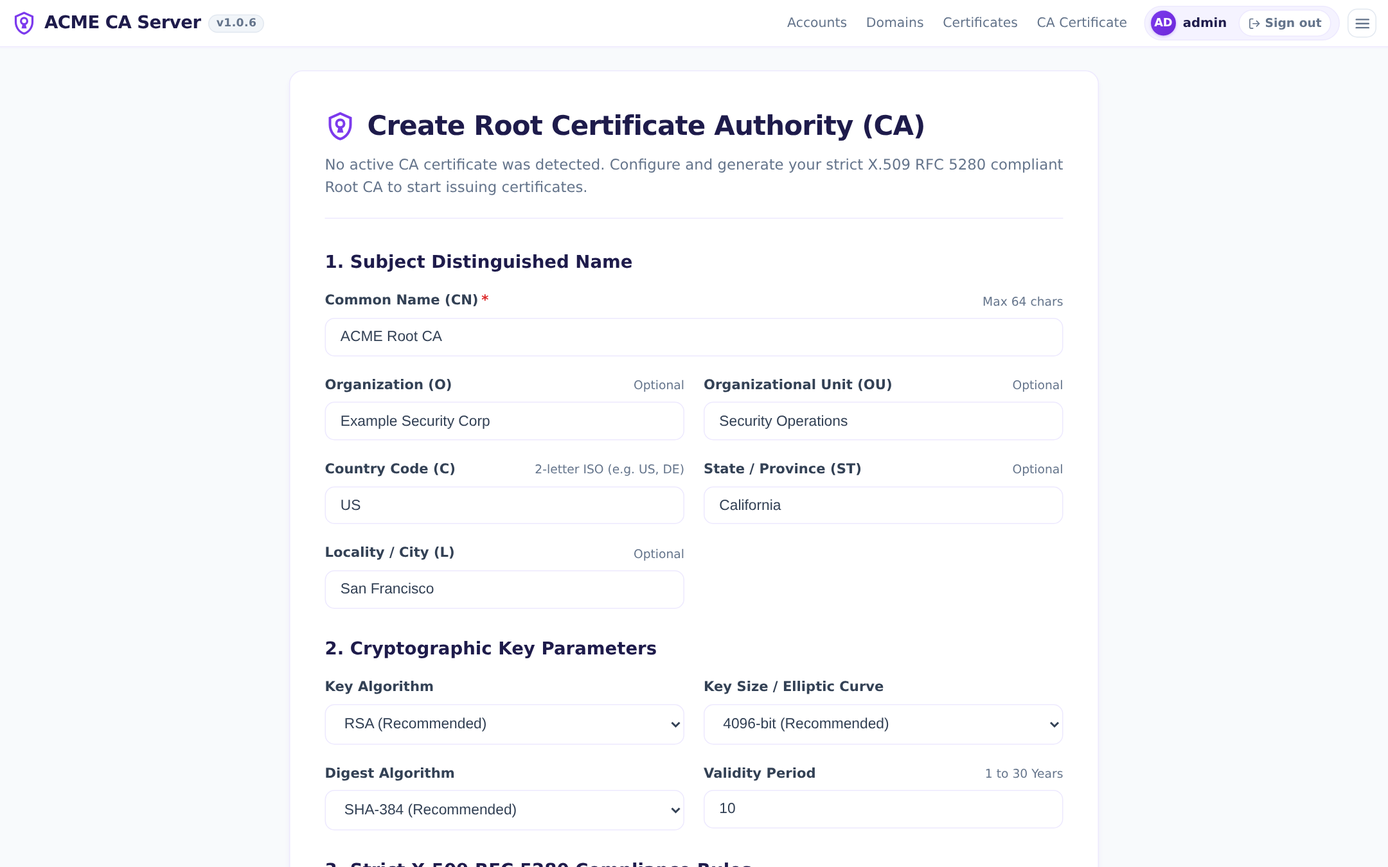
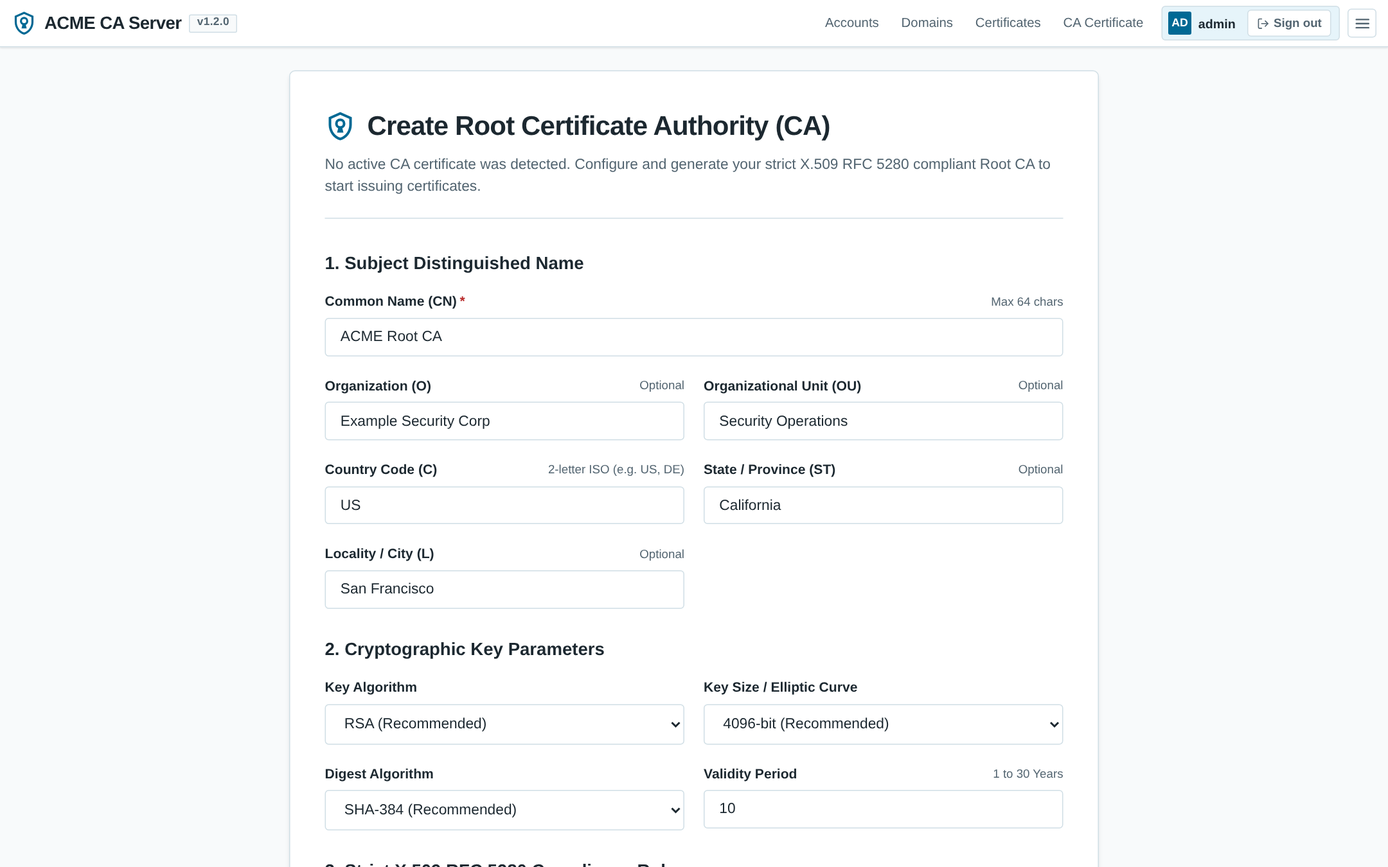
feat: add data management and automated retention UI documentation and screenshot captures

diff --git a/scripts/capture_ui_screens.py b/scripts/capture_ui_screens.py
@@ -19,6 +19,8 @@ Captures high-resolution screenshots of all web UI screens:
   13. CA Fleet Trust & Compliance Audit
   13b. CA Fleet Trust - CLI Probe & Manual Diagnostics Modal
   14. Client Root CA Trust Verification Portal
+  15. Data Management & Automated Retention
+  15b. Data Management - Dry Run & Simulation Modal
 
 Usage:
   python3 scripts/capture_ui_screens.py
@@ -132,6 +134,10 @@ async def obfuscate_page(page):
                 if (match.includes('example.com') || match.includes('example.org')) return match;
                 return 'admin@example.com';
             });
+
+            // 4. Sanitize app version tags if running in local dev
+            res = res.replace(/\bv0\.0\.0\b/g, 'v1.2.0');
+            res = res.replace(/\bv1\.0\.6\b/g, 'v1.2.0');
             
             return res;
         }
@@ -189,7 +195,7 @@ async def capture_all_screens(base_url: str, output_dir: Path, admin_user: str =
 
     default_params = {
         'app_title': 'ACME CA Server',
-        'app_version': 'v1.0.6',
+        'app_version': 'v1.2.0',
         'is_authenticated': False,
         'current_user': None,
         'active_tab': '',
@@ -892,6 +898,208 @@ async def capture_all_screens(base_url: str, output_dir: Path, admin_user: str =
             await context_verify.close()
         except Exception as e:
             print(f"    Warning: Could not capture CA trust verification portal: {e}")
+
+        # 15: Data Management & Automated Retention
+        print("--> Capturing 15_data_management.png...")
+        try:
+            captured = False
+            try:
+                resp = await page_auth.goto(f"{base_url}/data-management", wait_until='networkidle', timeout=4000)
+                if resp and resp.status == 200:
+                    captured = True
+            except Exception:
+                captured = False
+
+            if not captured:
+                dm_template = env.get_template('data-management.html')
+                sample_cfg = {
+                    'enabled': True,
+                    'cron_schedule_hours': 24,
+                    'run_at_hour_utc': 2,
+                    'delete_deactivated_accounts_days': 28,
+                    'delete_stale_orders_days': 14,
+                    'delete_invalid_domains_days': 28,
+                    'revoke_expired_certs_days': 7,
+                    'delete_revoked_certs_days': 14,
+                    'delete_distribution_logs_days': 14,
+                    'delete_fleet_audits_days': 7,
+                    'delete_run_history_days': 30,
+                    'email_notification_enabled': True,
+                    'notify_only_on_changes': True,
+                    'admin_email': 'admin@example.com',
+                }
+                sample_runs = [
+                    {
+                        'id': 'run-01',
+                        'started_at': datetime(2026, 10, 23, 2, 0, tzinfo=timezone.utc),
+                        'trigger': 'cron',
+                        'is_dry_run': False,
+                        'status': 'success',
+                        'duration_ms': 420,
+                        'records_impacted': 8,
+                        'details': {'stale_orders_deleted': 5, 'expired_certs_revoked': 2, 'distribution_logs_pruned': 1},
+                    },
+                    {
+                        'id': 'run-02',
+                        'started_at': datetime(2026, 10, 22, 2, 0, tzinfo=timezone.utc),
+                        'trigger': 'cron',
+                        'is_dry_run': False,
+                        'status': 'success',
+                        'duration_ms': 310,
+                        'records_impacted': 3,
+                        'details': {'stale_orders_deleted': 3},
+                    },
+                    {
+                        'id': 'run-03',
+                        'started_at': datetime(2026, 10, 21, 15, 30, tzinfo=timezone.utc),
+                        'trigger': 'manual',
+                        'is_dry_run': True,
+                        'status': 'success',
+                        'duration_ms': 180,
+                        'records_impacted': 4,
+                        'details': {'stale_orders_deleted': 4, 'note': 'Dry-run preview simulation'},
+                    },
+                ]
+                dm_params = dict(default_params)
+                dm_params.update({
+                    'is_authenticated': True,
+                    'current_user': admin_user,
+                    'request': MockRequest('/data-management', admin_user),
+                    'cfg': sample_cfg,
+                    'recent_runs': sample_runs,
+                    'error': '',
+                    'status_msg': '',
+                })
+                dm_html = await dm_template.render_async(**dm_params)
+                await page_auth.set_content(dm_html, wait_until='networkidle')
+
+            if obfuscate:
+                await obfuscate_page(page_auth)
+            await page_auth.screenshot(path=str(output_dir / "15_data_management.png"), full_page=False)
+            print("    Data Management screen captured successfully!")
+        except Exception as e:
+            print(f"    Warning: Could not capture data management: {e}")
+
+        # 15b: Data Management - Dry Run Simulation Modal
+        print("--> Capturing 15b_data_management_modal.png...")
+        try:
+            dry_run_btn = page_auth.locator("#btnDryRun")
+            modal_captured = False
+            if await dry_run_btn.count() > 0:
+                await dry_run_btn.click()
+                try:
+                    await page_auth.wait_for_selector("#modalBody .dm-kpi-grid", state='visible', timeout=5000)
+                    await asyncio.sleep(0.5)
+                    modal_captured = True
+                except Exception:
+                    modal_captured = False
+
+            if not modal_captured:
+                js_modal = """() => {
+                    const modal = document.getElementById('dmModal');
+                    if (modal) {
+                        modal.classList.add('active');
+                        const title = document.getElementById('modalTitle');
+                        const subtitle = document.getElementById('modalSubtitle');
+                        const iconBadge = document.getElementById('modalIconBadge');
+                        const body = document.getElementById('modalBody');
+                        const closeBtn = document.getElementById('modalCloseBtn');
+                        const cancelBtn = document.getElementById('modalCancelBtn');
+                        const confirmBtn = document.getElementById('modalConfirmBtn');
+                        if (title) title.textContent = 'Dry Run Simulation';
+                        if (subtitle) subtitle.textContent = 'Auditing retention policies...';
+                        if (iconBadge) {
+                            iconBadge.className = 'dm-modal-badge badge-success';
+                            iconBadge.innerHTML = '<svg viewBox="0 0 24 24" width="20" height="20" fill="none" stroke="currentColor" stroke-width="2.5" stroke-linecap="round" stroke-linejoin="round"><polyline points="20 6 9 17 4 12"></polyline></svg>';
+                        }
+                        if (closeBtn) closeBtn.style.visibility = 'visible';
+                        if (confirmBtn) confirmBtn.style.display = 'none';
+                        if (cancelBtn) {
+                            cancelBtn.style.display = 'inline-flex';
+                            cancelBtn.textContent = 'Close';
+                            cancelBtn.className = 'btn-action btn-run-now';
+                        }
+                        if (body) {
+                            body.innerHTML = `
+                                <div class="dm-kpi-grid">
+                                    <div class="dm-kpi-card">
+                                        <div class="dm-kpi-label">Records Impacted</div>
+                                        <div class="dm-kpi-val highlight">11</div>
+                                    </div>
+                                    <div class="dm-kpi-card">
+                                        <div class="dm-kpi-label">Duration</div>
+                                        <div class="dm-kpi-val">245 ms</div>
+                                    </div>
+                                    <div class="dm-kpi-card">
+                                        <div class="dm-kpi-label">Status</div>
+                                        <div class="dm-kpi-val" style="font-size: 0.95rem; color: var(--color-success);">Dry Run</div>
+                                    </div>
+                                </div>
+                                <div style="font-size: 0.82rem; font-weight: 600; color: var(--text-heading); margin-bottom: 0.4rem;">
+                                    Policy Rule Breakdown
+                                </div>
+                                <table class="dm-results-table">
+                                    <thead>
+                                        <tr>
+                                            <th style="text-align: left;">Retention Policy Rule</th>
+                                            <th style="text-align: center; width: 110px;">Threshold</th>
+                                            <th style="text-align: right; width: 90px;">Impacted</th>
+                                        </tr>
+                                    </thead>
+                                    <tbody>
+                                        <tr>
+                                            <td style="font-weight: 500;">Deactivated Accounts</td>
+                                            <td style="text-align: center; color: var(--text-muted); font-family: var(--font-family-mono); font-size: 0.8rem;">28 days</td>
+                                            <td style="text-align: right; font-family: var(--font-family-mono); font-size: 0.85rem; color: var(--text-muted);">0</td>
+                                        </tr>
+                                        <tr>
+                                            <td style="font-weight: 500;">Inactive & Expired Orders</td>
+                                            <td style="text-align: center; color: var(--text-muted); font-family: var(--font-family-mono); font-size: 0.8rem;">14 days</td>
+                                            <td style="text-align: right; font-family: var(--font-family-mono); font-size: 0.85rem; color: var(--primary); font-weight: 700;">6</td>
+                                        </tr>
+                                        <tr>
+                                            <td style="font-weight: 500;">Invalid Domain Records</td>
+                                            <td style="text-align: center; color: var(--text-muted); font-family: var(--font-family-mono); font-size: 0.8rem;">28 days</td>
+                                            <td style="text-align: right; font-family: var(--font-family-mono); font-size: 0.85rem; color: var(--text-muted);">0</td>
+                                        </tr>
+                                        <tr>
+                                            <td style="font-weight: 500;">Revoke Expired Certificates</td>
+                                            <td style="text-align: center; color: var(--text-muted); font-family: var(--font-family-mono); font-size: 0.8rem;">7 days</td>
+                                            <td style="text-align: right; font-family: var(--font-family-mono); font-size: 0.85rem; color: var(--primary); font-weight: 700;">3</td>
+                                        </tr>
+                                        <tr>
+                                            <td style="font-weight: 500;">Delete Revoked Certificates</td>
+                                            <td style="text-align: center; color: var(--text-muted); font-family: var(--font-family-mono); font-size: 0.8rem;">14 days</td>
+                                            <td style="text-align: right; font-family: var(--font-family-mono); font-size: 0.85rem; color: var(--primary); font-weight: 700;">2</td>
+                                        </tr>
+                                        <tr>
+                                            <td style="font-weight: 500;">CA Distribution Logs</td>
+                                            <td style="text-align: center; color: var(--text-muted); font-family: var(--font-family-mono); font-size: 0.8rem;">14 days</td>
+                                            <td style="text-align: right; font-family: var(--font-family-mono); font-size: 0.85rem; color: var(--text-muted);">0</td>
+                                        </tr>
+                                    </tbody>
+                                </table>
+                                <div class="dm-status-note note-info">
+                                    <svg viewBox="0 0 24 24" width="16" height="16" fill="none" stroke="currentColor" stroke-width="2"><circle cx="12" cy="12" r="10"></circle><line x1="12" y1="16" x2="12" y2="12"></line><line x1="12" y1="8" x2="12.01" y2="8"></line></svg>
+                                    <span><strong>Simulation Complete:</strong> This was a read-only audit. No database records were modified or deleted.</span>
+                                </div>
+                            `;
+                        }
+                    }
+                }"""
+                await page_auth.evaluate(js_modal)
+                await asyncio.sleep(0.4)
+
+            if obfuscate:
+                await obfuscate_page(page_auth)
+            await page_auth.screenshot(path=str(output_dir / "15b_data_management_modal.png"), full_page=False)
+            print("    Data Management modal captured successfully!")
+            close_btn = page_auth.locator("#modalCloseBtn, #modalCancelBtn").first
+            if await close_btn.count() > 0:
+                await close_btn.click()
+                await asyncio.sleep(0.3)
+        except Exception as e:
+            print(f"    Warning: Could not capture data management modal: {e}")
 
         await context_auth.close()
         await browser.close()

diff --git a/README.md b/README.md
@@ -2,9 +2,7 @@
 
 [![Build](https://github.com/diepeterpan/acme-ca-server/actions/workflows/docker-image.yml/badge.svg)](https://github.com/diepeterpan/acme-ca-server/actions/workflows/docker-image.yml)
 
-A self-hosted ACME server with a built-in CA and optional web interface.
-
-> 🤖 **Note**: The refreshed Web UI and RFC 8555 DNS-01 challenge support were added by **AI Vibe Coding**.
+A self-hosted ACME server with a built-in CA and web interface.
 
 ## Features
 
@@ -14,6 +12,7 @@ A self-hosted ACME server with a built-in CA and optional web interface.
 * 🚀 **Automated CA Distribution** &mdash; Fleet delivery and installation of Root CA certificates via SSH/SCP and Email distribution groups. Features intelligent remote OS auto-detection (Ubuntu/Debian, RHEL/CentOS, Alpine, Arch, OpenWrt, macOS, Windows Server/Desktop), platform-tailored installation guides (`README.txt`), encrypted credential storage at rest (`CA_ENCRYPTION_KEY`), multi-endpoint batch distribution, and audit logging.
 * 🛡 **CA Fleet Trust & Compliance Audit (BETA)** &mdash; Enterprise-wide trust propagation tracking and compliance dashboard (`/ca-fleet-trust`). Performs automated SSH sweeps across distribution endpoints, validates installed root certificates in system stores (Linux, OpenWrt, Windows, macOS), correlates endpoints via reverse DNS, and monitors overall fleet compliance with real-time SSE progress streaming.
 * 🎯 **Dedicated CA TLS Trust Probes & Verification Portal** &mdash; Standalone TLS probe servers running on dedicated ports (e.g. 9443, 9444) for every active and standby CA. Powers a client-facing self-service verification portal (`/ca-trust/verify`) that tests browser/device root CA trust in real-time, provides platform-specific remediation guides (iOS, Android, macOS, Windows), and automatically posts telemetry back to the fleet audit dashboard.
+* 🧹 **Automated Data Management & Retention** &mdash; Automated background worker and cron scheduler (`DATA_MGMT_*`) for database maintenance: configurable retention rules for deactivated accounts, stale orders, invalid domain authorizations, expired certificate auto-revocation, revoked certificate purging, distribution logs, and fleet audit history. Includes dry-run simulation mode, interactive progress UI, and HTML email maintenance reports.
 * ✉ **Mail notifications** (for account creation, expiring and expired certificates) with customizable templates
 * 🌐 [**Web UI**](./Documentation/UI_TOUR_SHOWCASE.md) &mdash; Modern, full-featured administrative web interface ([view screenshot showcase](./Documentation/UI_TOUR_SHOWCASE.md)):
   * 📊 **Operational Dashboard**: Live KPI metrics (accounts, domains, certificates, root CA status) and ACME Entrypoint hero card with 1-click clipboard copy.
@@ -21,13 +20,15 @@ A self-hosted ACME server with a built-in CA and optional web interface.
   * 🚀 **CA Distribution Hub & Deployment Modal**: Dedicated hub (`/ca-distribution`) for managing SSH and Email delivery endpoints with tab-contextual addition buttons, live connectivity, and OS detection diagnostics, plus 1-click batch delivery directly from the Root CA details view.
   * 🛡 **CA Fleet Trust & Audit Dashboard**: Comprehensive fleet compliance tracking (`/ca-fleet-trust`) with collapsible KPI overview cards (`[▾ Hide Overview]`), automated SSH sweeps, reverse DNS auto-matching, multi-parameter filtering, and live SSE streaming progress.
   * 📱 **Client Root CA Trust Verification Portal**: Interactive self-service verification interface (`/ca-trust/verify`) with real-time TLS handshake probing across dedicated CA ports, platform auto-detection, and tailored installation guides.
-  * 📜 **Certificates & Deep Capability Inspector**: Searchable audit logs with status tabs (Valid, Revoked, Expired), direct downloads, and an interactive **Certificate Details Modal** detailing cryptographic properties, health audits, and application capabilities (TLS Server, mTLS Client, Code Signing, S/MIME, Digital Signatures).
+  * 🧹 **Data Management & Retention Hub**: Dedicated management interface (`/data-management`) to configure automated retention rules, trigger live **Dry Run Audits** with simulated impact breakdowns, and review historical maintenance sweeps.
+  * 📜 **Certificates & Deep Capability Inspector**: Searchable audit logs with status tabs (Valid, Revoked, Expired), real-time search filtering with dynamic match counters (`Showing X of Y`), direct downloads, and an interactive **Certificate Details Modal** detailing cryptographic properties, health audits, and application capabilities (TLS Server, mTLS Client, Code Signing, S/MIME, Digital Signatures).
   * 📊 **High-Performance Data Grids**: Sticky frozen column headers during vertical scrolling across all tables, interactive column visibility selector (`[Columns ⚙]`), 1-click layout reset (`[Reset]`), draggable column resizing with persistent widths, and viewport-locking to eliminate duplicate page scrollbars.
-  * 🌐 **Domains Registry**: Domain status monitoring, cross-view certificate navigation, and safe deletion of stale domains.
-  * 👥 **Accounts Management**: ACME account registry (`kid`), certificate/order breakdowns, activate/deactivate actions, and interactive order error diagnostics with batch deletion safeguards.
+  * 🌐 **Domains Registry**: Domain status monitoring, Root CA coverage micro-badges (`🛡 S`), real-time search filtering with dynamic match counters (`Showing X of Y`), cross-view certificate navigation, and safe deletion of stale domains.
+  * 👥 **Accounts Management**: ACME account registry (`kid`), certificate/order breakdowns, real-time search filtering with dynamic match counters (`Showing X of Y`), activate/deactivate actions, and interactive order error diagnostics with batch deletion safeguards.
   * ✉ **Mail Settings & Delivery Test**: Dedicated UI screen to configure outbound SMTP parameters, warning policies, and run live connection tests before saving.
   * 🛡 **Startup Database Integrity Auditor**: Boot-time verification checking 12 relational and cryptographic integrity constraints with automatic maintenance mode veil.
   * 🔒 **Authentication & User Management**: Secure PBKDF2-hashed login, Remember Me sessions, guided first-boot onboarding, user self-service password changes, streamlined single-line toolbar layout on the user management dashboard (`/users`), and optional **OpenID Connect (OIDC) Single Sign-On** (Authelia, Keycloak, Authentik) with PKCE (RFC 7636) and pre-provisioned access control.
+  * 🎨 **Modern Typography & Design System**: Self-hosted Switzer font typography, centralized toggle switches, sleek glassmorphism modal dialogs, and unified visual components.
 
 Tested with [Certbot](https://certbot.eff.org/), [Traefik](https://traefik.io/traefik/), [Caddy](https://caddyserver.com/), [uacme](https://github.com/ndilieto/uacme), [acme.sh](https://github.com/acmesh-official/acme.sh).
 
@@ -218,6 +219,20 @@ For instance, `DB_DSN` can be provided either as an env var or as a file at `/ru
 | OIDC_X509_REQUIRED        | `True` | whether to enforce strict X.509 certificate validation for the OIDC provider (set `False` to relax for legacy certs) |
 | OIDC_USE_PKCE        | `True` | whether to use PKCE (RFC 7636) code exchange (required by Authelia, Keycloak 22+) |
 | OIDC_TOKEN_AUTH_METHOD        | `auto` | client auth method for token exchange: `auto`, `client_secret_basic`, or `client_secret_post` |
+| DATA_MGMT_ENABLED        | `True` | whether automated background data retention and maintenance sweeps are enabled |
+| DATA_MGMT_CRON_SCHEDULE_HOURS | `24` | run interval in hours for the automated data retention background worker |
+| DATA_MGMT_RUN_AT_HOUR_UTC | `2` | preferred UTC hour (0-23) to execute daily retention sweeps |
+| DATA_MGMT_DELETE_DEACTIVATED_ACCOUNTS_DAYS | `28` | days after deactivation to permanently purge accounts without valid certificates (0 = disabled) |
+| DATA_MGMT_DELETE_STALE_ORDERS_DAYS | `14` | days after which stale orders without active certificates are purged (0 = disabled) |
+| DATA_MGMT_DELETE_INVALID_DOMAINS_DAYS | `28` | days after which invalid domain records and authorizations are cleaned up (0 = disabled) |
+| DATA_MGMT_REVOKE_EXPIRED_CERTS_DAYS | `7` | days after expiration when expired certificates are automatically transitioned to revoked status (0 = disabled) |
+| DATA_MGMT_DELETE_REVOKED_CERTS_DAYS | `14` | days after revocation when revoked certificates are permanently removed from the database and CRL (0 = disabled) |
+| DATA_MGMT_DELETE_DISTRIBUTION_LOGS_DAYS | `14` | days to retain CA distribution historical logs while preserving latest per endpoint (0 = disabled) |
+| DATA_MGMT_DELETE_FLEET_AUDITS_DAYS | `7` | days to retain device fleet trust audit history while preserving latest per target (0 = disabled) |
+| DATA_MGMT_DELETE_RUN_HISTORY_DAYS | `30` | days to retain maintenance run history records while preserving the 15 most recent runs (0 = disabled) |
+| DATA_MGMT_EMAIL_NOTIFICATION_ENABLED | `True` | whether to dispatch an HTML maintenance summary email report to the administrator upon completion |
+| DATA_MGMT_NOTIFY_ONLY_ON_CHANGES | `True` | avoid sending maintenance email reports if 0 records were impacted during the sweep |
+| DATA_MGMT_ADMIN_EMAIL | `None` | recipient email address override for maintenance reports (defaults to sender/admin from Mail Settings) |
 
 ### Configuration Precedence: Seed Variables vs. Authoritative Variables
 
@@ -227,6 +242,8 @@ The server distinguishes between **Seed Variables** (which initialize the databa
 These environment variables serve solely as **initial bootstrap defaults**. Once written to PostgreSQL, the database becomes the single source of truth:
 * **Mail Settings (`MAIL_*`)**: `MAIL_ENABLED`, `MAIL_HOST`, `MAIL_PORT`, `MAIL_USERNAME`, `MAIL_PASSWORD`, `MAIL_ENCRYPTION`, `MAIL_SENDER`, `MAIL_NOTIFY_ON_ACCOUNT_CREATION`, `MAIL_WARN_BEFORE_CERT_EXPIRES`, `MAIL_NOTIFY_WHEN_CERT_EXPIRED`.
   * *Behavior*: On clean database installations, these seed the initial row in `mail_settings`. After initialization or after changes are saved via the Web UI (**Mail Settings** screen), the database values take precedence. Changing `MAIL_*` environment variables afterwards will **not** override stored database settings. To update mail settings, use the Web UI or update the `mail_settings` table directly.
+* **Data Management & Retention Settings (`DATA_MGMT_*`)**: `DATA_MGMT_ENABLED`, `DATA_MGMT_CRON_SCHEDULE_HOURS`, `DATA_MGMT_RUN_AT_HOUR_UTC`, `DATA_MGMT_DELETE_DEACTIVATED_ACCOUNTS_DAYS`, `DATA_MGMT_DELETE_STALE_ORDERS_DAYS`, `DATA_MGMT_DELETE_INVALID_DOMAINS_DAYS`, `DATA_MGMT_REVOKE_EXPIRED_CERTS_DAYS`, `DATA_MGMT_DELETE_REVOKED_CERTS_DAYS`, `DATA_MGMT_DELETE_DISTRIBUTION_LOGS_DAYS`, `DATA_MGMT_DELETE_FLEET_AUDITS_DAYS`, `DATA_MGMT_DELETE_RUN_HISTORY_DAYS`, `DATA_MGMT_EMAIL_NOTIFICATION_ENABLED`, `DATA_MGMT_NOTIFY_ONLY_ON_CHANGES`, `DATA_MGMT_ADMIN_EMAIL`.
+  * *Behavior*: On clean database installations, these seed the initial row in `data_management_settings`. Subsequent changes made via the Web UI (**Data Management** screen) take precedence and are persisted in PostgreSQL.
 * **Initial Admin Credentials (`WEB_ADMIN_*`)**: `WEB_ADMIN_USERNAME`, `WEB_ADMIN_PASSWORD`.
   * *Behavior*: Pre-provisions an initial administrator account on startup only if the username does not already exist in the database. If the user already exists, changing `WEB_ADMIN_PASSWORD` in the environment will **not** alter the existing password hash stored in the database.
 * **CA Import Files (`CA_IMPORT_DIR`)**:

diff --git a/Documentation/UI_TOUR_SHOWCASE.md b/Documentation/UI_TOUR_SHOWCASE.md
@@ -29,6 +29,8 @@ To re-generate or update these captures at any time, run:
    - [13. CA Fleet Trust & Compliance Audit](#13-ca-fleet-trust--compliance-audit)
    - [13b. CA Fleet Trust CLI Probe Commands Modal](#13b-ca-fleet-trust-cli-probe-commands-modal)
    - [14. Client Root CA Trust Verification Portal](#14-client-root-ca-trust-verification-portal)
+   - [15. Data Management & Automated Retention](#15-data-management--automated-retention)
+   - [15b. Data Retention Dry-Run & Simulation Modal](#15b-data-retention-dry-run--simulation-modal)
 
 ---
 
@@ -98,7 +100,7 @@ Comprehensive log of all certificates issued by the ACME server:
 - **Local Service Timezone Tooltips**: Issue and expiration timestamps display formatted in local service time, with hover tooltips rendering the precise second and timezone designation (`YYYY-MM-DD HH:MM:SS TZ`).
 - **High-Density Expanded Layout**: Responsive 1560px max container with clean padding for enhanced visibility on widescreen displays.
 - Filterable by status tabs: **All**, **Valid**, **Expiring**, **Revoked**, **Expired**.
-- Real-time client-side text search by domain, common name, or serial number.
+- **Dynamic Search Filter & Count Badges**: Real-time client-side search input filtering across domains, Common Names, and serial numbers, accompanied by an instant dynamic counter badge reflecting filtered matches (`Showing X of Y`).
 - Direct download of individual leaf certificates and certificate chains.
 - Revocation management with confirmation dialog and CRL synchronization.
 
@@ -133,6 +135,8 @@ Registry of all Fully Qualified Domain Names (FQDNs) managed by ACME clients:
 - **User-Resizable Columns**: Interactive drag handles to adjust column widths with persistence across visits.
 - **Cross-View Navigation**: The `View Certificates →` action links directly to `/certificates?domainfilter=<domain>&certstatus=all`, ensuring all matching leaf certificates are displayed regardless of the active status tab.
 - **Safe Domain Deletion**: Allows safe deletion of invalid domains that no longer have associated active certificates, cleaning up old ACME authorizations, challenges, orders, and failure logs with modal confirmation and filter state retention.
+- **Root CA Coverage Micro-Badges & Status**: Visual micro-badges (`🛡 S`) indicate which internal Certificate Authority issued active leaf certificates for the domain, providing instant visibility into fleet coverage and highlighting orphaned or uncovered domains.
+- **Dynamic Search Filter & Count Badges**: Real-time client-side search input accompanied by an instant dynamic counter badge displaying the exact count of filtered domains (`Showing X of Y`).
 - **Local Timezone Display**: First requested and validity timestamps feature hover tooltips detailing exact seconds and active server timezone.
 - Status badges indicating domain validity.
 
@@ -150,6 +154,7 @@ Management center for all registered ACME client accounts:
 - **Dedicated Activation & Deactivation Confirmation Modals**: Purpose-built modal dialogs with visual accents and clear severity styling (Emerald Green for activation, Amber for deactivation) to prevent accidental status alterations.
 - **Guarded Account Deletion**: Deactivated accounts without active certificates can be permanently deleted with confirmation, removing associated ACME orders, challenges, and error logs. Client and server-side safety checks dynamically disable deletion if valid certificates are tied to the account.
 - **Preserved Filter Navigation**: Filter query strings (`accountstatus`, `accountfilter`) remain preserved upon status toggles and account deletion.
+- **Dynamic Search Filter & Count Badges**: Real-time client-side search input supporting instant search across Account IDs (`kid`) and contact emails, paired with an active dynamic counter badge showing matching records (`Showing X of Y`).
 - Displays Account ID (`kid`), contact email, and public key type (RSA/ECDSA).
 - Certificate breakdown counters: **Valid**, **Revoked**, and **Expired**.
 - Order request breakdown counters: **Valid**, **Pending**, **Processing**, and **Errors**.
@@ -268,6 +273,39 @@ A dedicated, responsive self-service verification interface (`/ca-trust/verify`)
 - **Telemetry Auto-Reporting**: Automatically logs successful and failed verification checks back to the server, feeding real-time device trust metrics directly into the administrative CA Fleet Trust dashboard.
 
 ![Client Root CA Trust Verification Portal](screenshots/14_ca_trust_verify.png)
+
+---
+
+### 15. Data Management & Automated Retention
+Centralized database retention and automated storage maintenance interface (`/data-management`):
+- **Automated Retention Rule Engine**: Granular day threshold settings (with `0` to disable) across 8 core retention rules:
+  - **Deactivated Accounts**: Purges deactivated accounts older than the threshold while safely protecting accounts with active valid certificates.
+  - **Inactive & Expired Orders**: Prunes stale orders without associated active certificates.
+  - **Invalid Domain Records**: Cleans up abandoned domain authorizations and orphaned challenges where linked certificates have expired or been revoked.
+  - **Revoke Expired Certificates**: Automatically transitions expired leaf certificates to revoked status and syncs the active Certificate Revocation List (CRL).
+  - **Delete Revoked Certificates**: Permanently purges revoked certificates older than the retention threshold and updates the CRL without them.
+  - **CA Distribution Logs**: Prunes historical delivery records while always preserving the single latest log per endpoint.
+  - **Fleet Trust Audit History**: Prunes device audit logs while retaining the most recent probe result per (Device, IP, Verification Method).
+  - **Maintenance Run History**: Cleans up older audit records while preserving the 15 most recent maintenance sweeps.
+- **Background Cronjob Scheduling**: Configurable automated scheduler running at custom intervals (e.g., every 24 hours) with preferred UTC execution hour.
+- **Email Summary Reporting**: Dispatches comprehensive HTML maintenance reports to administrators with a "Notify Only on Changes" toggle to avoid empty notification clutter.
+- **Dry-Run Audit Simulation**: Instant one-click simulation (`[Dry Run Audit]`) executing all active retention rules in read-only mode to preview affected record counts without modifying or deleting data.
+- **Maintenance Run Audit Log**: Complete history table logging each execution timestamp, trigger type (Cron vs. Manual), status, duration in milliseconds, total records impacted, and popovers with granular per-rule breakdowns.
+
+![Data Management & Automated Retention](screenshots/15_data_management.png)
+
+---
+
+### 15b. Data Retention Dry-Run & Simulation Modal
+Interactive simulation dialog triggered by clicking **Dry Run Audit** or **Run Clean-up Now**:
+- **Real-Time Simulation Execution**: Executes retention evaluation asynchronously with animated loading spinner and state indicators.
+- **Visual KPI Overview**: Instant summary cards rendering total **Records Impacted**, execution **Duration (ms)**, and **Status** (`Dry Run` vs. `Pruned`).
+- **Policy Rule Breakdown Table**: Comprehensive itemized grid displaying each evaluated retention policy rule, configured day threshold, and exact impacted record count.
+- **Read-Only Safety Confirmation**: Contextual alert banner confirming read-only audit simulation status with reassurance that zero records were altered or deleted.
+- **Smart View Refresh**: Automatically refreshes the main Data Management history log and table metrics upon dialog closure if any sweeps were executed.
+
+![Data Retention Dry-Run & Simulation Modal](screenshots/15b_data_management_modal.png)
+
 
 
 
